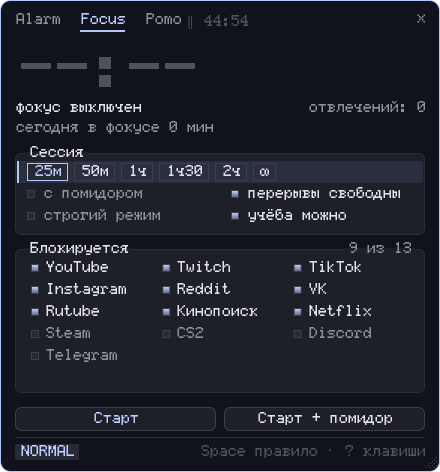
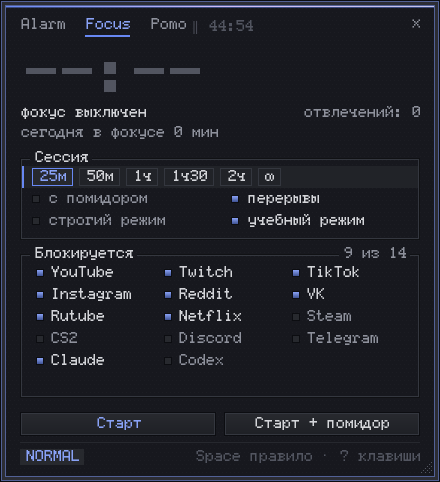
New screenshots; Focus: clearer option names, Claude and Codex rules

diff --git a/.config/hypr/scripts/focus_mode.py b/.config/hypr/scripts/focus_mode.py
@@ -12,7 +12,7 @@
   • каждая встреча с запрещённым окном — «отвлечение», счёт за день виден в окне
     Routine (вкладка Focus) и в `focus status`.
 Фокус — сессия на время (25m, 1h…) или до отмены; можно ещё «авто с помидором»
-(включён, пока идёт рабочий отрезок pomo) и «перерывы свободны» (на перерыве pomo
+(включён, пока идёт рабочий отрезок pomo) и «перерывы» (на перерыве pomo
 блокировки нет).
 
     focus_mode.py on [ВРЕМЯ]     начать: 25m, 1h30m, 90 (минуты); без времени — до отмены
@@ -56,12 +56,13 @@ DEFAULT_BLOCKS = [
     {"label": "Reddit", "match": "reddit", "on": True},
     {"label": "VK", "match": "вконтакте|vk видео|vk\\.com|vkvideo", "on": True},
     {"label": "Rutube", "match": "rutube", "on": True},
-    {"label": "Кинопоиск", "match": "кинопоиск|kinopoisk", "on": True},
     {"label": "Netflix", "match": "netflix", "on": True},
     {"label": "Steam", "app": "^steam$", "on": False},
     {"label": "CS2", "app": "^cs2$|gamescope", "on": False},
     {"label": "Discord", "app": "discord|vesktop", "on": False},
     {"label": "Telegram", "app": "org\\.telegram\\.desktop", "on": False},
+    {"label": "Claude", "match": "claude", "on": False},
+    {"label": "Codex", "match": "codex", "on": False},
 ]
 # Учёба по видео: слово из списка в заголовке/названии — ролик можно и в фокусе
 # (только для правил по заголовку; правила по app-id исключений не знают).

diff --git a/.config/hypr/scripts/desktop_widgets_extra.py b/.config/hypr/scripts/desktop_widgets_extra.py
@@ -1419,7 +1419,7 @@ def register(ns):
 
     class Weather(Widget, SecondTicker):
         """Погода с wttr.in (без ключа). Город — opts.city; не задан — служба определяет
-        его по IP (с VPN будет чужой город — тогда задать: set ИМЯ city=Almaty).
+        его по IP (с VPN будет чужой город — тогда задать: set ИМЯ city=Berlin).
         Обновление раз в полчаса; нет сети — показывается последнее сохранённое.
 
         Живой фон по погоде (06.10.2026, Просьба: «хотелось бы, чтобы он реагировал на погодные

diff --git a/README.md b/README.md
@@ -5,52 +5,13 @@
 A pixel-styled [niri](https://github.com/YaLTeR/niri) desktop for Arch Linux.<br>
 Every color comes from your wallpaper.
 
-![staticOS desktop](assets/desktop.png)
+![Focus](assets/desktop-focus.png)
 
-![niri](https://img.shields.io/badge/niri-26.04-8fa0ff?style=flat-square&labelColor=15161e)
-![arch](https://img.shields.io/badge/Arch%20Linux-%E2%9C%93-8fa0ff?style=flat-square&labelColor=15161e)
-![palette](https://img.shields.io/badge/palette-from%20wallpaper-8fa0ff?style=flat-square&labelColor=15161e)
-![license](https://img.shields.io/badge/license-MIT-8fa0ff?style=flat-square&labelColor=15161e)
+<p align="center"><i>With the top bar and Focus: block distracting sites and apps for a session.</i></p>
 
-[Install](docs/install.md) · [User guide](docs/guide.md) · [Alarm](docs/alarm.md)
+![Settings](assets/desktop-settings.png)
 
-**English** · [Русский](README.ru.md)
-
-</div>
-
-> [!NOTE]
-> Screenshots show demo data: a made-up alarm plan and no chats or notifications of anyone's.
-> The windows are drawn by the same scripts that run on the desktop.
-
-## Highlights
-
-- **One palette everywhere.** Change the wallpaper and the bar, terminal, notifications,
-  GTK/Qt apps, cursor, icons and even the keyboard backlight follow it.
-- **Settings in one window** — `Super+/`. Bars, panels, fonts, lock screen, shaders, widgets,
-  sounds: no config files to edit. Three looks: Default, Skeet, Beta.
-- **An alarm you cannot sleep through.** It stops only when you type a phrase, checks on you
-  again later, and a daytime Watchman keeps you from dozing off. [How it works →](docs/alarm.md)
-- **Focus and pomodoro.** Block distracting sites and apps for a session, with a pomodoro on top.
-- **App list** — `Super+Alt+T`. Programs and packages with versions, one-key rollback to an
-  older version, hold, cleanup of package caches and logs, and a full system summary.
-- **Desktop widgets and an XP-style taskbar.** Clocks, player, weather, system monitor and more
-  as little `.exe` windows; an optional bottom panel with a Start button.
-- **Screenshots, OCR and recording.** Annotate, pin a screenshot on top, copy text off the screen,
-  record GIFs, videos and Telegram stickers.
-- **Own clipboard, Alt+Tab, lock screen and screensaver**, all keyboard-driven with vim keys.
-
-## Screenshots
-
-![staticOS with the XP-style taskbar and desktop widgets](assets/desktop-xp.png)
-
-<p align="center"><i>The other layout: desktop widgets and an XP-style taskbar with a Start button instead of the top bar.</i></p>
-
-<details>
-<summary>With the top bar</summary>
-
-![staticOS with the top bar](assets/desktop-bar.png)
-
-</details>
+<p align="center"><i>Settings: one window for bars, fonts, widgets, lock screen and more.</i></p>
 
 | | |
 |:-:|:-:|

diff --git a/README.ru.md b/README.ru.md
@@ -41,16 +41,13 @@
 
 ## Снимки
 
-![staticOS с панелью XP и виджетами](assets/desktop-xp.png)
+![Focus](assets/desktop-focus.png)
 
-<p align="center"><i>Другая раскладка: виджеты на обоях и панель в духе XP с «Пуском» вместо верхнего бара.</i></p>
+<p align="center"><i>С верхним баром и Focus: блокировка сайтов и программ на время сессии.</i></p>
 
-<details>
-<summary>С верхним баром</summary>
+![Настройки](assets/desktop-settings.png)
 
-![staticOS с верхним баром](assets/desktop-bar.png)
-
-</details>
+<p align="center"><i>Настройки: панели, шрифты, виджеты, экран блокировки и прочее в одном окне.</i></p>
 
 | | |
 |:-:|:-:|
